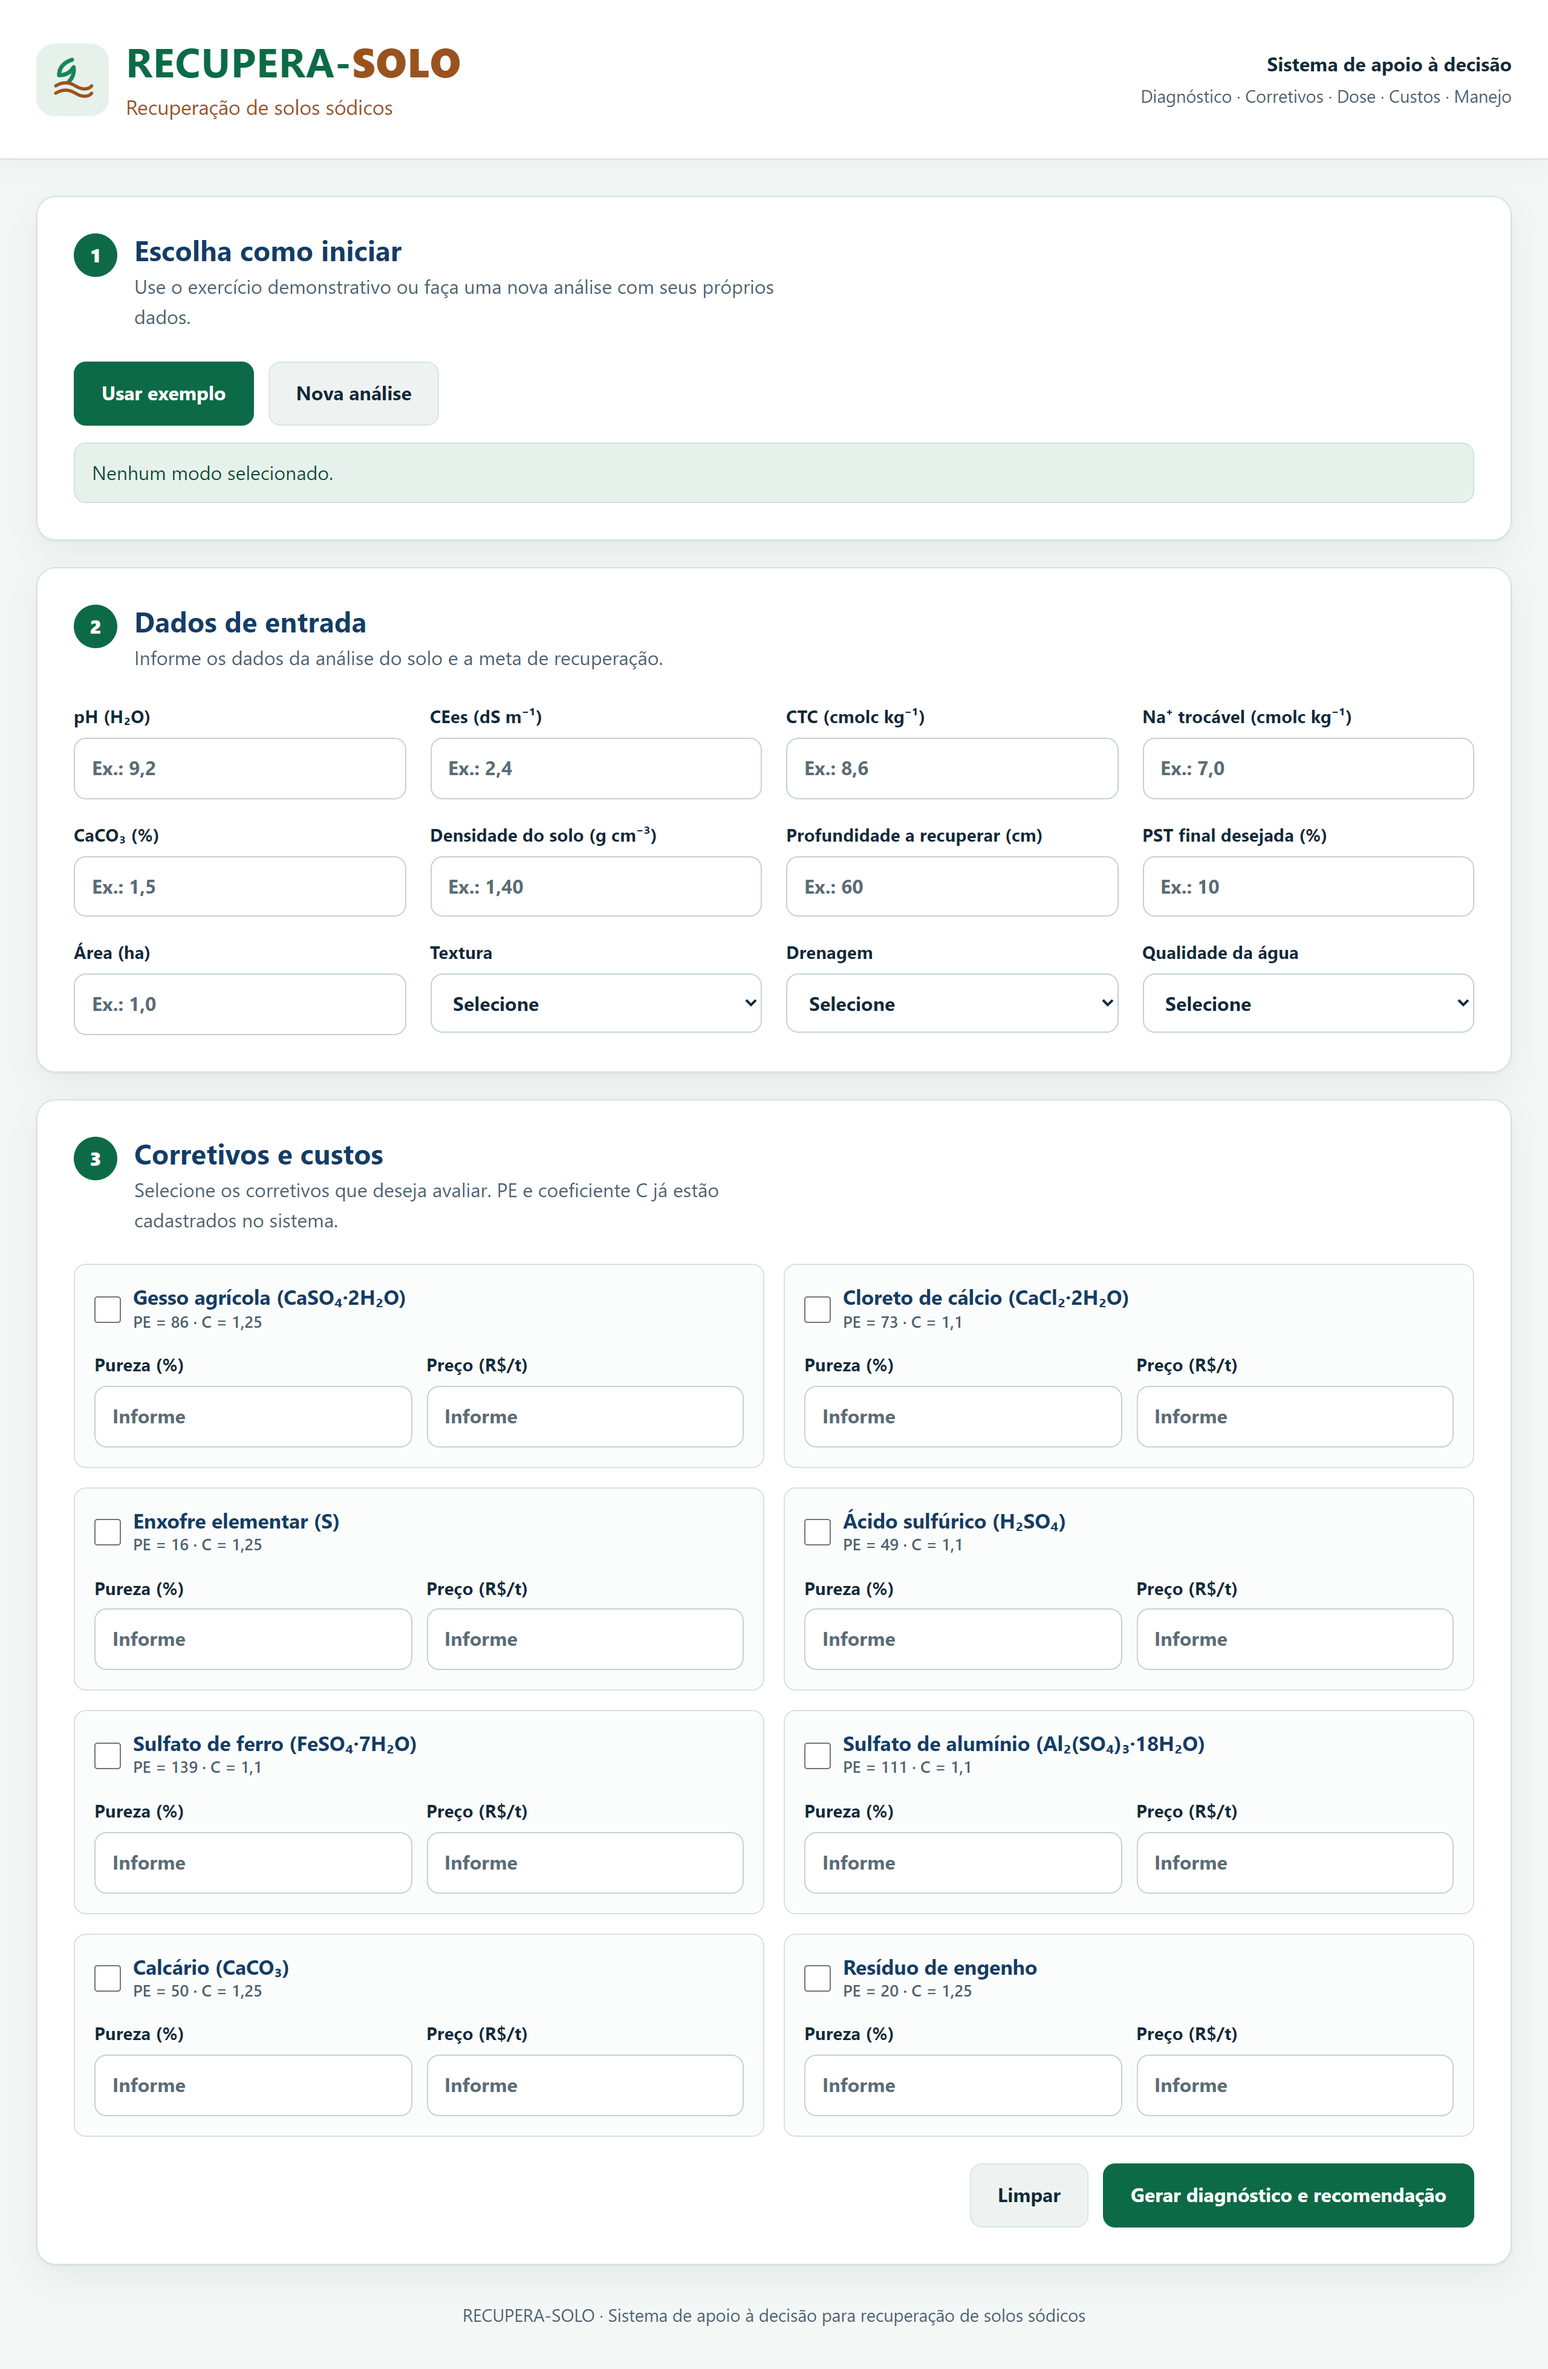
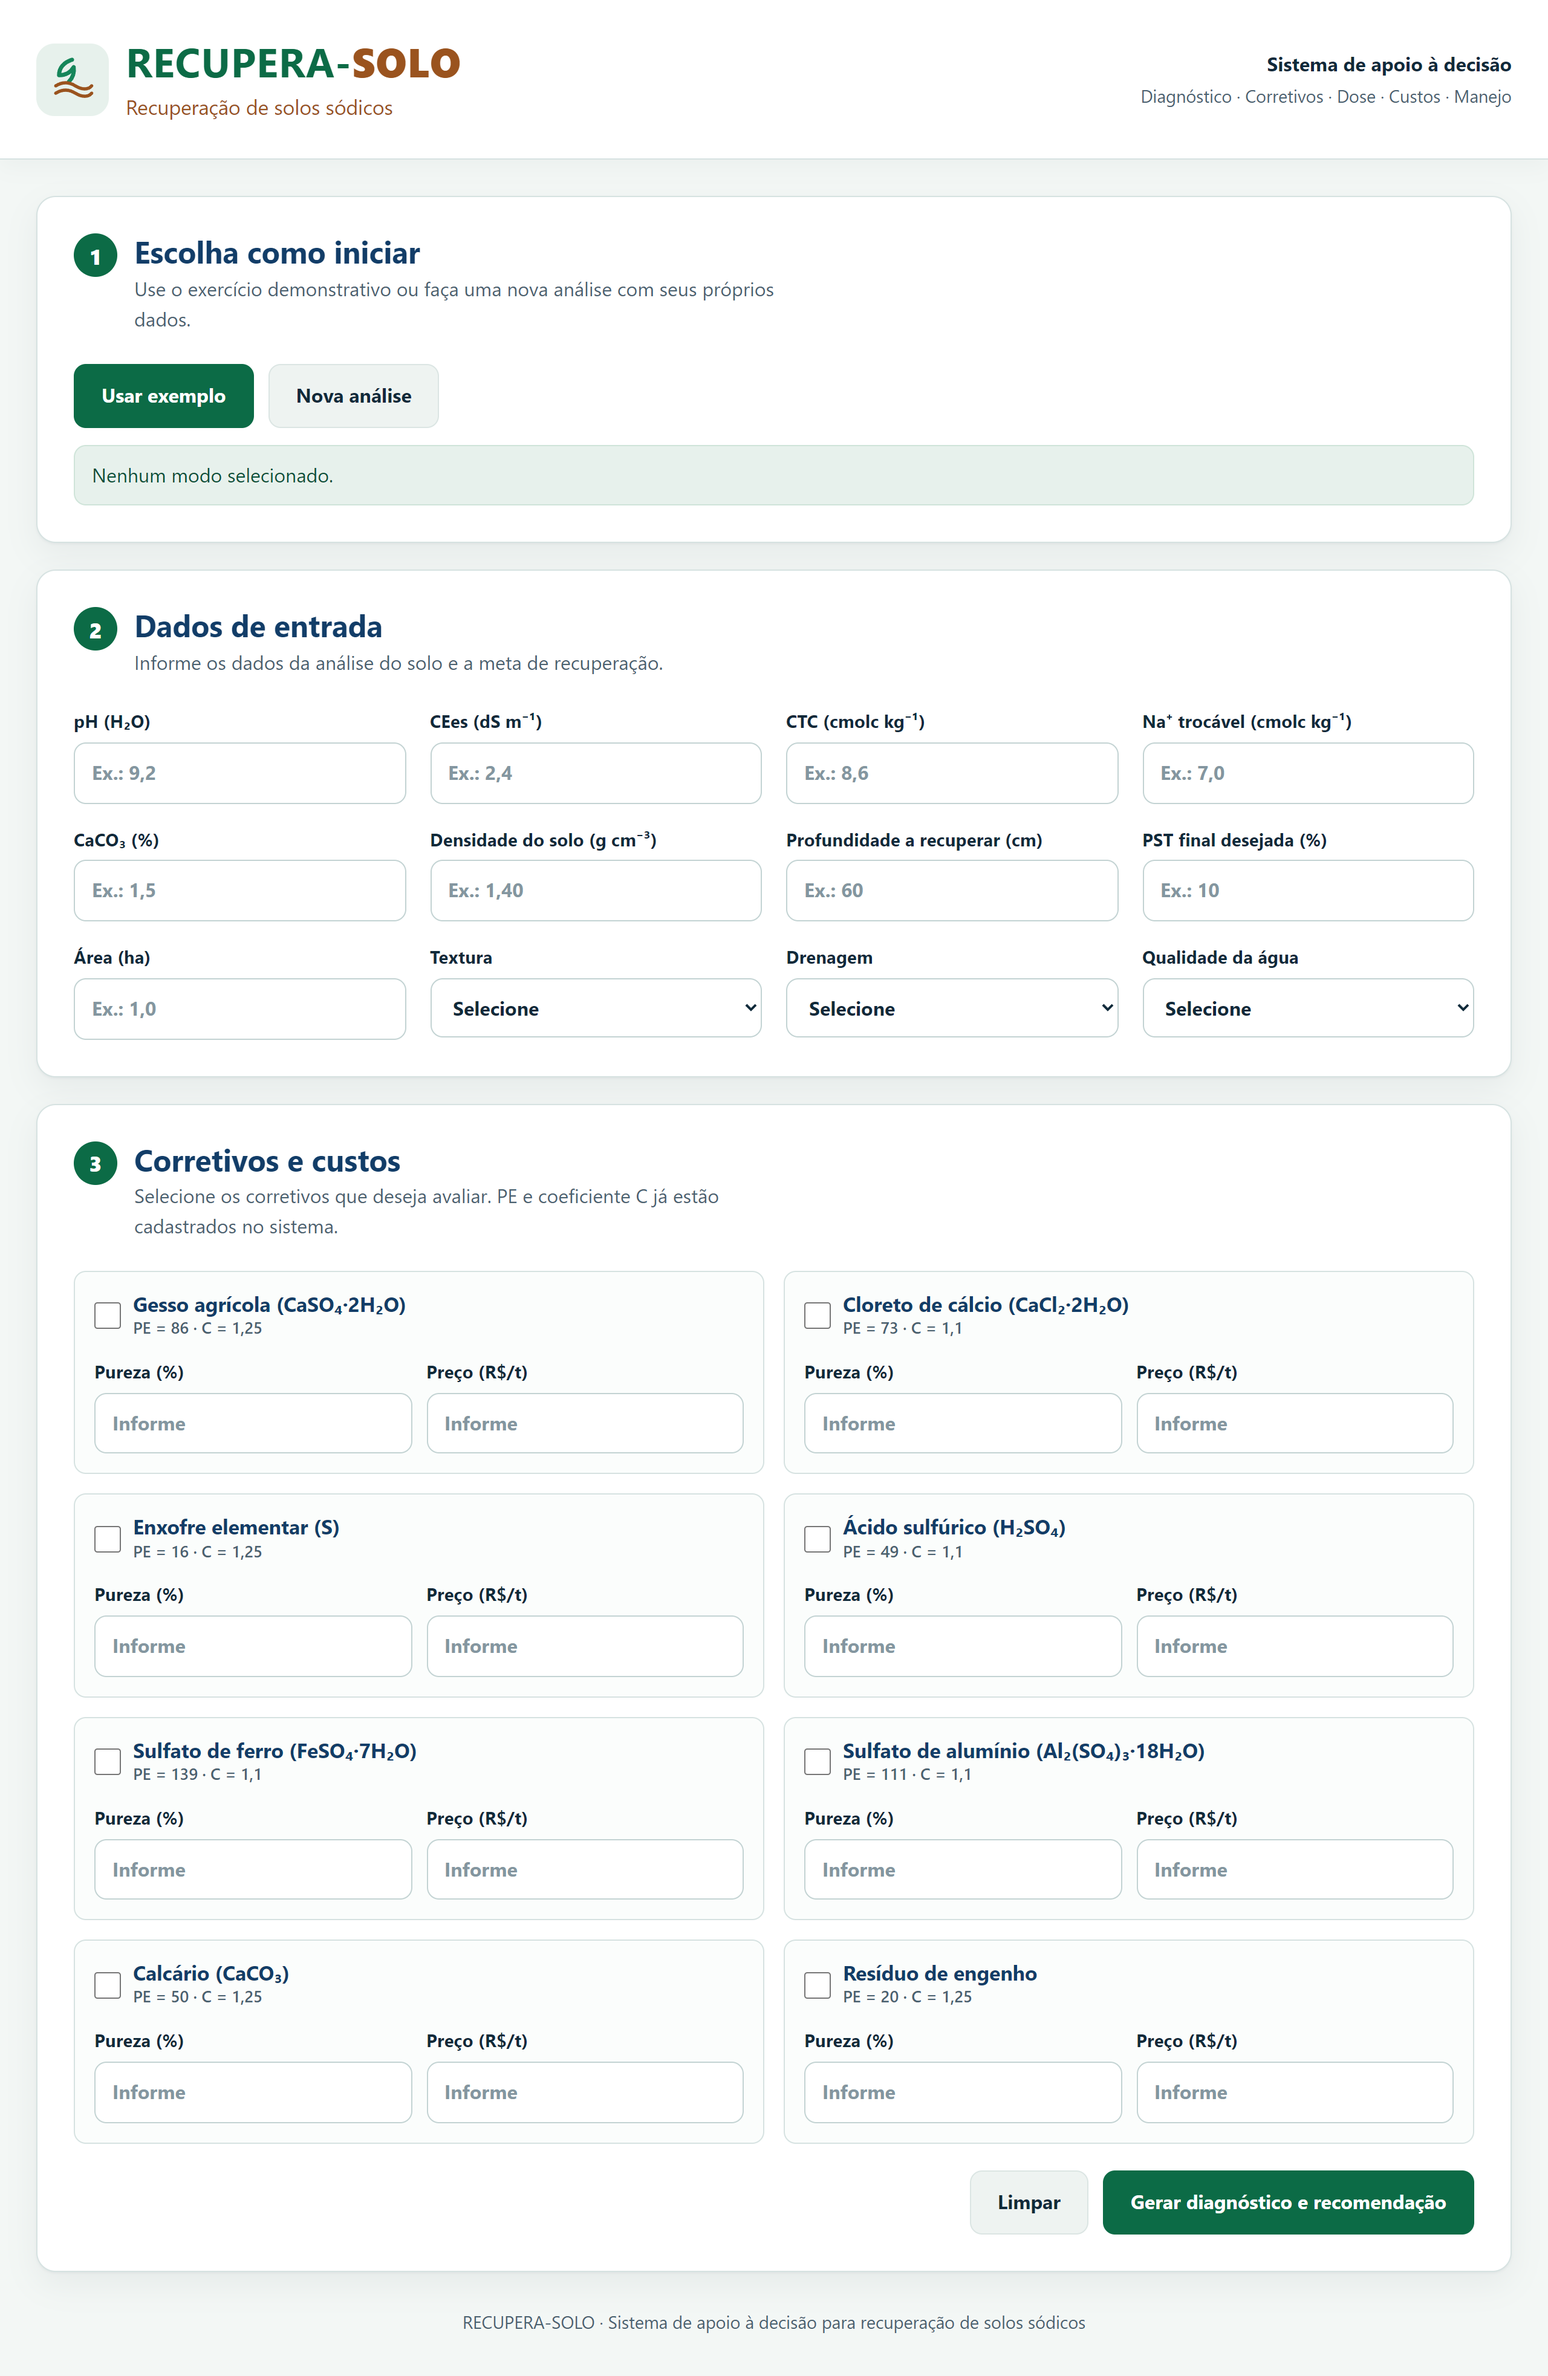
Caixa do menor custo em telha e texto de abertura em uma linha

diff --git a/style.css b/style.css
@@ -254,7 +254,7 @@ code {
 .titulo-secao p {
   margin-top: 4px;
   color: var(--tinta-suave);
-  max-width: min(62ch, 100%);
+  max-width: 100%;
 }
 
 /* Modo de início */
@@ -562,9 +562,10 @@ td.atencao {
   margin-top: 16px;
   padding: 14px 16px;
   border-radius: var(--raio-pequeno);
-  background: var(--ocre-claro);
-  border: 1px solid #ecd7c4;
-  color: #5d3410;
+  border: 1px solid #dcc3ae;
+  border-left: 4px solid var(--ocre);
+  background: #f4e9e0;
+  color: #5b3317;
 }
 
 .destaque:empty {

diff --git a/MELHORIAS.md b/MELHORIAS.md
@@ -26,6 +26,7 @@ Depois do cálculo, a tabela vira cartões:
 - Erro junto ao campo; resumo com âncoras e foco no primeiro erro.
 - Teclado numérico nos campos de número.
 - Textos de exemplo mais claros nos campos.
+- Caixa do menor custo em telha, distinta do verde de ação e do laranja de alerta.
 - Impressão sem botões e sem cabeçalho.
 
 ## Pendência
